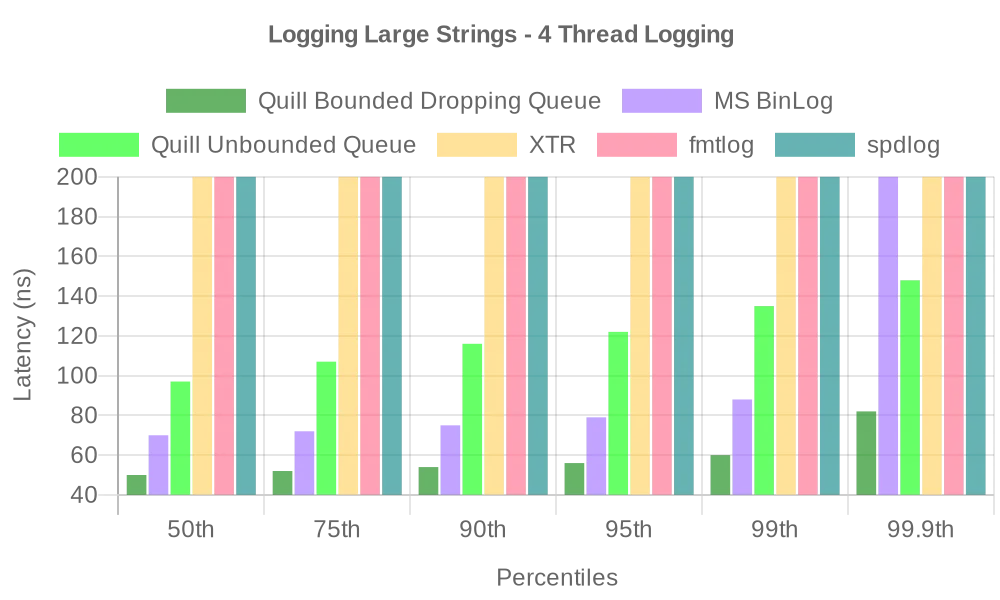
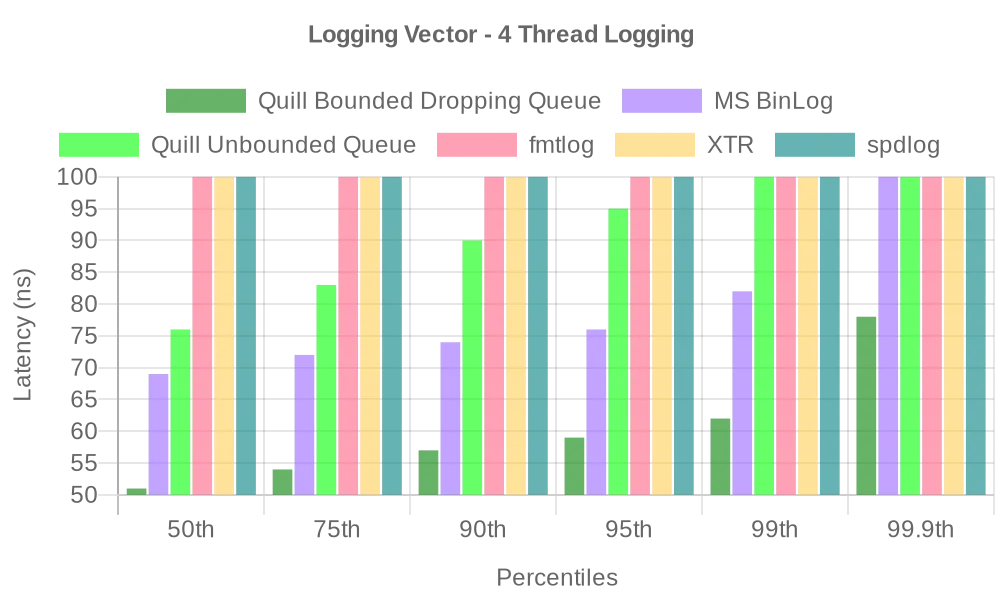
update benchmarks

Changed region(s): [[0.062, 0.21, 0.992, 0.84], [0.279, 0.03, 0.744, 0.09], [0.062, 0.81, 0.093, 0.84]]

diff --git a/scripts/generate_latency_chart_url.py b/scripts/generate_latency_chart_url.py
@@ -16,7 +16,8 @@ def generate_chart_url(markdown_table, title):
         'Iyengar NanoLog': 'rgba(100,149,237,0.6)',  # Cornflower Blue
         'spdlog': 'rgba(0,128,128,0.6)',  # Teal
         'g3log': 'rgba(255,165,0,0.6)',  # Orange Red
-        'BqLog': 'rgba(75,0,130,0.6)'  # Indigo
+        'BqLog': 'rgba(75,0,130,0.6)',  # Indigo
+        'Quill Unbounded Queue - Macro Free Mode': 'rgba(0,206,209,0.6)'  # Dark Turquoise
     }
 
     # Parse the markdown table
@@ -90,38 +91,94 @@ def generate_chart_url(markdown_table, title):
 # Define multiple markdown tables and titles
 markdown_tables = [
     """
-| Library                                                        | 50th | 75th | 90th | 95th | 99th | 99.9th |
-|----------------------------------------------------------------|:----:|:----:|:----:|:----:|:----:|:------:|
-| [Quill Bounded Dropping Queue](http://github.com/odygrd/quill) |  11  |  13  |  13  |  14  |  15  |   16   |
-| [fmtlog](http://github.com/MengRao/fmtlog)                     |  11  |  12  |  13  |  14  |  15  |   17   |
-| [Quill Unbounded Queue](http://github.com/odygrd/quill)        |  14  |  15  |  16  |  17  |  18  |   19   |
-| [MS BinLog](http://github.com/Morgan-Stanley/binlog)           |  22  |  23  |  24  |  25  |  61  |  100   |
-| [PlatformLab NanoLog](http://github.com/PlatformLab/NanoLog)   |  15  |  17  |  21  |  27  |  33  |   39   |
-| [XTR](https://github.com/choll/xtr)                            |  8   |  9   |  29  |  31  |  35  |   54   |
-| [BqLog](https://github.com/Tencent/BqLog)                      |  29  |  30  |  31  |  51  |  60  |   71   |
-| [Reckless](http://github.com/mattiasflodin/reckless)           |  91  | 107  | 115  | 118  | 124  |  135   |
-| [Iyengar NanoLog](http://github.com/Iyengar111/NanoLog)        |  86  |  97  | 119  | 128  | 159  |  268   |
-| [spdlog](http://github.com/gabime/spdlog)                      | 120  | 124  | 128  | 132  | 141  |  151   |
-| [g3log](http://github.com/KjellKod/g3log)                      | 881  | 956  | 1018 | 1089 | 1264 |  1494  |
+| Library                                                                   | 50th | 75th | 90th | 95th | 99th | 99.9th |
+|---------------------------------------------------------------------------|:----:|:----:|:----:|:----:|:----:|:------:|
+| [Quill Bounded Dropping Queue](http://github.com/odygrd/quill)            |  8   |  9   |  9   |  9   |  11  |   13   |
+| [Quill Unbounded Queue](http://github.com/odygrd/quill)                   |  8   |  9   |  9   |  9   |  11  |   13   |
+| [fmtlog](http://github.com/MengRao/fmtlog)                                |  8   |  9   |  10  |  10  |  12  |   13   |
+| [PlatformLab NanoLog](http://github.com/PlatformLab/NanoLog)              |  13  |  14  |  16  |  18  |  22  |   26   |
+| [MS BinLog](http://github.com/Morgan-Stanley/binlog)                      |  20  |  21  |  21  |  22  |  60  |   95   |
+| [XTR](https://github.com/choll/xtr)                                       |  7   |  7   |  29  |  31  |  33  |   54   |
+| [Quill Unbounded Queue - Macro Free Mode](http://github.com/odygrd/quill) |  26  |  27  |  28  |  28  |  29  |   32   |
+| [Reckless](http://github.com/mattiasflodin/reckless)                      |  26  |  28  |  31  |  32  |  34  |   42   |
+| [BqLog](https://github.com/Tencent/BqLog)                                 |  55  |  57  |  61  |  87  | 152  |  167   |
+| [Iyengar NanoLog](http://github.com/Iyengar111/NanoLog)                   |  85  |  98  | 119  | 127  | 350  |  409   |
+| [spdlog](http://github.com/gabime/spdlog)                                 | 148  | 151  | 154  | 157  | 165  |  173   |
+| [g3log](http://github.com/KjellKod/g3log)                                 | 1191 | 1288 | 1367 | 1485 | 1600 |  1889  |
     """,
     """
-| Library                                                        | 50th | 75th | 90th | 95th | 99th | 99.9th |
-|----------------------------------------------------------------|:----:|:----:|:----:|:----:|:----:|:------:|
-| [XTR](https://github.com/choll/xtr)                            |  9   |  11  |  13  |  14  |  32  |   40   |
-| [fmtlog](http://github.com/MengRao/fmtlog)                     |  11  |  12  |  13  |  14  |  16  |   19   |
-| [Quill Bounded Dropping Queue](http://github.com/odygrd/quill) |  13  |  14  |  15  |  16  |  17  |   19   |
-| [Quill Unbounded Queue](http://github.com/odygrd/quill)        |  15  |  16  |  17  |  18  |  19  |   21   |
-| [MS BinLog](http://github.com/Morgan-Stanley/binlog)           |  23  |  25  |  27  |  28  |  65  |  105   |
-| [PlatformLab NanoLog](http://github.com/PlatformLab/NanoLog)   |  16  |  20  |  32  |  38  |  44  |   51   |
-| [BqLog](https://github.com/Tencent/BqLog)                      |  32  |  33  |  35  |  56  |  64  |   76   |
-| [Reckless](http://github.com/mattiasflodin/reckless)           |  79  |  94  | 104  | 107  | 114  |  132   |
-| [Iyengar NanoLog](http://github.com/Iyengar111/NanoLog)        |  85  |  93  | 125  | 133  | 168  |  237   |
-| [spdlog](http://github.com/gabime/spdlog)                      | 178  | 218  | 261  | 281  | 381  |  651   |
-| [g3log](http://github.com/KjellKod/g3log)                      | 992  | 1055 | 1121 | 1178 | 1360 |  1600  |
+| Library                                                                   | 50th | 75th | 90th | 95th | 99th | 99.9th |
+|---------------------------------------------------------------------------|:----:|:----:|:----:|:----:|:----:|:------:|
+| [fmtlog](http://github.com/MengRao/fmtlog)                                |  9   |  9   |  9   |  10  |  12  |   13   |
+| [Quill Bounded Dropping Queue](http://github.com/odygrd/quill)            |  8   |  9   |  10  |  10  |  12  |   15   |
+| [Quill Unbounded Queue](http://github.com/odygrd/quill)                   |  8   |  9   |  10  |  10  |  13  |   15   |
+| [XTR](https://github.com/choll/xtr)                                       |  7   |  8   |  9   |  10  |  31  |   39   |
+| [PlatformLab NanoLog](http://github.com/PlatformLab/NanoLog)              |  14  |  16  |  19  |  22  |  26  |   30   |
+| [MS BinLog](http://github.com/Morgan-Stanley/binlog)                      |  21  |  21  |  22  |  23  |  61  |  102   |
+| [Reckless](http://github.com/mattiasflodin/reckless)                      |  18  |  22  |  25  |  27  |  31  |   49   |
+| [Quill Unbounded Queue - Macro Free Mode](http://github.com/odygrd/quill) |  28  |  29  |  30  |  31  |  34  |   41   |
+| [BqLog](https://github.com/Tencent/BqLog)                                 |  57  |  60  |  64  |  95  | 162  |  179   |
+| [Iyengar NanoLog](http://github.com/Iyengar111/NanoLog)                   |  63  |  93  | 127  | 134  | 228  |  337   |
+| [spdlog](http://github.com/gabime/spdlog)                                 | 215  | 251  | 320  | 357  | 449  |  734   |
+| [g3log](http://github.com/KjellKod/g3log)                                 | 1276 | 1347 | 1409 | 1462 | 1677 |  1954  |
+    """,
+    """
+| Library                                                                   | 50th | 75th | 90th | 95th | 99th | 99.9th |
+|---------------------------------------------------------------------------|:----:|:----:|:----:|:----:|:----:|:------:|
+| [Quill Bounded Dropping Queue](http://github.com/odygrd/quill)            |  10  |  12  |  13  |  13  |  15  |   16   |
+| [fmtlog](http://github.com/MengRao/fmtlog)                                |  10  |  12  |  13  |  13  |  15  |   16   |
+| [Quill Unbounded Queue](http://github.com/odygrd/quill)                   |  12  |  13  |  14  |  15  |  17  |   19   |
+| [MS BinLog](http://github.com/Morgan-Stanley/binlog)                      |  23  |  23  |  24  |  25  |  63  |   97   |
+| [PlatformLab NanoLog](http://github.com/PlatformLab/NanoLog)              |  14  |  16  |  18  |  20  |  30  |   34   |
+| [XTR](https://github.com/choll/xtr)                                       |  8   |  8   |  28  |  29  |  33  |   53   |
+| [Quill Unbounded Queue - Macro Free Mode](http://github.com/odygrd/quill) |  31  |  32  |  33  |  34  |  35  |   37   |
+| [BqLog](https://github.com/Tencent/BqLog)                                 |  57  |  60  |  64  |  88  | 160  |  173   |
+| [Reckless](http://github.com/mattiasflodin/reckless)                      |  90  | 107  | 113  | 116  | 122  |  131   |
+| [Iyengar NanoLog](http://github.com/Iyengar111/NanoLog)                   |  88  |  99  | 119  | 128  | 357  |  424   |
+| [spdlog](http://github.com/gabime/spdlog)                                 | 126  | 129  | 132  | 135  | 142  |  151   |
+| [g3log](http://github.com/KjellKod/g3log)                                 | 899  | 975  | 1037 | 1121 | 1267 |  1453  |
+    """,
+    """
+| Library                                                                   | 50th | 75th | 90th | 95th | 99th | 99.9th |
+|---------------------------------------------------------------------------|:----:|:----:|:----:|:----:|:----:|:------:|
+| [fmtlog](http://github.com/MengRao/fmtlog)                                |  10  |  12  |  13  |  14  |  16  |   19   |
+| [Quill Bounded Dropping Queue](http://github.com/odygrd/quill)            |  12  |  13  |  14  |  15  |  16  |   18   |
+| [XTR](https://github.com/choll/xtr)                                       |  8   |  12  |  13  |  15  |  30  |   40   |
+| [Quill Unbounded Queue](http://github.com/odygrd/quill)                   |  13  |  14  |  16  |  17  |  20  |   23   |
+| [MS BinLog](http://github.com/Morgan-Stanley/binlog)                      |  23  |  24  |  25  |  26  |  65  |  105   |
+| [Quill Unbounded Queue - Macro Free Mode](http://github.com/odygrd/quill) |  30  |  31  |  33  |  34  |  36  |   41   |
+| [PlatformLab NanoLog](http://github.com/PlatformLab/NanoLog)              |  16  |  19  |  28  |  36  |  44  |   51   |
+| [BqLog](https://github.com/Tencent/BqLog)                                 |  60  |  64  |  68  |  95  | 170  |  186   |
+| [Reckless](http://github.com/mattiasflodin/reckless)                      |  79  |  93  | 101  | 105  | 112  |  131   |
+| [Iyengar NanoLog](http://github.com/Iyengar111/NanoLog)                   |  87  |  95  | 128  | 135  | 195  |  330   |
+| [spdlog](http://github.com/gabime/spdlog)                                 | 197  | 224  | 276  | 306  | 394  |  689   |
+| [g3log](http://github.com/KjellKod/g3log)                                 | 1000 | 1062 | 1131 | 1203 | 1374 |  1617  |
+    """,
+    """
+| Library                                                        | 50th  | 75th  | 90th  | 95th  | 99th  | 99.9th |
+|----------------------------------------------------------------|:-----:|:-----:|:-----:|:-----:|:-----:|:------:|
+| [Quill Bounded Dropping Queue](http://github.com/odygrd/quill) |  48   |  52   |  56   |  59   |  123  |  158   |
+| [MS BinLog](http://github.com/Morgan-Stanley/binlog)           |  67   |  69   |  72   |  73   |  79   |  280   |
+| [Quill Unbounded Queue](http://github.com/odygrd/quill)        |  126  |  136  |  145  |  151  |  160  |  172   |
+| [XTR](https://github.com/choll/xtr)                            |  287  |  295  |  342  |  347  |  355  |  576   |
+| [fmtlog](http://github.com/MengRao/fmtlog)                     |  649  |  668  |  702  |  723  |  753  |  790   |
+| [spdlog](http://github.com/gabime/spdlog)                      | 11659 | 11758 | 11848 | 11905 | 12866 | 13543  |
+    """,
+    """
+| Library                                                        | 50th  | 75th  | 90th  | 95th  |  99th  | 99.9th |
+|----------------------------------------------------------------|:-----:|:-----:|:-----:|:-----:|:------:|:------:|
+| [Quill Bounded Dropping Queue](http://github.com/odygrd/quill) |  51   |  54   |  57   |  59   |   62   |   78   |
+| [MS BinLog](http://github.com/Morgan-Stanley/binlog)           |  69   |  72   |  74   |  76   |   82   |  299   |
+| [Quill Unbounded Queue](http://github.com/odygrd/quill)        |  76   |  83   |  90   |  95   |  105   |  119   |
+| [fmtlog](http://github.com/MengRao/fmtlog)                     |  675  |  700  |  742  |  759  |  790   |  822   |
+| [XTR](https://github.com/choll/xtr)                            |  580  | 1210  | 1309  | 1371  | 198694 | 222254 |
+| [spdlog](http://github.com/gabime/spdlog)                      | 12128 | 12247 | 12363 | 12460 | 13910  | 15902  |
     """
 ]
 
-titles = ["Logging Vector - 1 Thread Logging", "Logging Large Strings - 4 Thread Logging"]
+titles = ["Logging Numbers - 1 Thread Logging", "Logging Numbers - 4 Thread Logging",
+          "Logging Large Strings - 1 Thread Logging", "Logging Large Strings - 4 Thread Logging",
+          "Logging Vector - 1 Thread Logging", "Logging Vector - 4 Thread Logging"]
 
 # Generate URLs for each chart
 chart_urls = []

diff --git a/scripts/generate_throughput_chart_url.py b/scripts/generate_throughput_chart_url.py
@@ -11,7 +11,8 @@ def generate_chart_url(markdown_table, title):
         'spdlog': 'rgba(0,128,128,0.6)',  # Teal
         'Reckless': 'rgba(255,99,71,0.6)',  # Tomato Red
         'XTR': 'rgba(255,206,86,0.6)',  # Yellow
-        'BqLog': 'rgba(75,0,130,0.6)'  # Indigo
+        'BqLog': 'rgba(75,0,130,0.6)',  # Indigo
+        'Quill - Macro Free Mode': 'rgba(0,206,209,0.6)'  # Dark Turquoise
     }
 
     # Parse the markdown table
@@ -81,12 +82,15 @@ def generate_chart_url(markdown_table, title):
 markdown_table = """
 | Library                                                           | million msg/second | elapsed time |
 |-------------------------------------------------------------------|:------------------:|:------------:|
-| [Quill](http://github.com/odygrd/quill)                           |        5.70        |    701 ms    |
-| [BqLog](https://github.com/Tencent/BqLog)                         |        4.93        |    811 ms    |
-| [spdlog](http://github.com/gabime/spdlog)                         |        3.54        |   1128 ms    |
-| [fmtlog](http://github.com/MengRao/fmtlog)                        |        2.90        |   1378 ms    |
+| [MS BinLog (binary log)](http://github.com/Morgan-Stanley/binlog) |       62.12        |    64 ms     |
+| [BqLog (binary log)](https://github.com/Tencent/BqLog)            |       15.24        |    262 ms    |
+| [XTR](https://github.com/choll/xtr)                               |        8.25        |    484 ms    |
+| [Quill](http://github.com/odygrd/quill)                           |        5.30        |    754 ms    |
+| [spdlog](http://github.com/gabime/spdlog)                         |        4.32        |    925 ms    |
+| [fmtlog](http://github.com/MengRao/fmtlog)                        |        2.77        |   1443 ms    |
 | [Reckless](http://github.com/mattiasflodin/reckless)              |        2.72        |   1471 ms    |
-| [XTR](https://github.com/choll/xtr)                               |        2.61        |   1534 ms    |
+| [Quill - Macro Free Mode](https://github.com/choll/xtr)           |        2.65        |   1510 ms    |
+| [BqLog](https://github.com/Tencent/BqLog)                         |        2.53        |   1580 ms    |
 """
 
 # Generate the chart URL without MS BinLog

diff --git a/README.md b/README.md
@@ -221,18 +221,18 @@ The tables are sorted by the 95th percentile
 
 | Library                                                                   | 50th | 75th | 90th | 95th | 99th | 99.9th |
 |---------------------------------------------------------------------------|:----:|:----:|:----:|:----:|:----:|:------:|
-| [Quill Bounded Dropping Queue](http://github.com/odygrd/quill)            |  7   |  8   |  8   |  9   |  9   |   11   |
-| [fmtlog](http://github.com/MengRao/fmtlog)                                |  9   |  9   |  10  |  10  |  12  |   13   |
-| [Quill Unbounded Queue](http://github.com/odygrd/quill)                   |  10  |  10  |  10  |  10  |  12  |   14   |
-| [PlatformLab NanoLog](http://github.com/PlatformLab/NanoLog)              |  13  |  14  |  16  |  17  |  19  |   25   |
-| [MS BinLog](http://github.com/Morgan-Stanley/binlog)                      |  21  |  21  |  22  |  22  |  56  |   93   |
-| [XTR](https://github.com/choll/xtr)                                       |  7   |  7   |  29  |  30  |  33  |   53   |
-| [Quill Unbounded Queue - Macro Free Mode](http://github.com/odygrd/quill) |  26  |  27  |  28  |  28  |  30  |   32   |
-| [Reckless](http://github.com/mattiasflodin/reckless)                      |  26  |  28  |  31  |  32  |  35  |   49   |
-| [BqLog](https://github.com/Tencent/BqLog)                                 |  29  |  29  |  30  |  49  |  56  |   71   |
-| [Iyengar NanoLog](http://github.com/Iyengar111/NanoLog)                   |  83  |  96  | 117  | 125  | 152  |  197   |
-| [spdlog](http://github.com/gabime/spdlog)                                 | 143  | 147  | 152  | 158  | 165  |  177   |
-| [g3log](http://github.com/KjellKod/g3log)                                 | 1161 | 1259 | 1329 | 1419 | 1602 |  1827  |
+| [Quill Bounded Dropping Queue](http://github.com/odygrd/quill)            |  8   |  9   |  9   |  9   |  11  |   13   |
+| [Quill Unbounded Queue](http://github.com/odygrd/quill)                   |  8   |  9   |  9   |  9   |  11  |   13   |
+| [fmtlog](http://github.com/MengRao/fmtlog)                                |  8   |  9   |  10  |  10  |  12  |   13   |
+| [PlatformLab NanoLog](http://github.com/PlatformLab/NanoLog)              |  13  |  14  |  16  |  18  |  22  |   26   |
+| [MS BinLog](http://github.com/Morgan-Stanley/binlog)                      |  20  |  21  |  21  |  22  |  60  |   95   |
+| [XTR](https://github.com/choll/xtr)                                       |  7   |  7   |  29  |  31  |  33  |   54   |
+| [Quill Unbounded Queue - Macro Free Mode](http://github.com/odygrd/quill) |  26  |  27  |  28  |  28  |  29  |   32   |
+| [Reckless](http://github.com/mattiasflodin/reckless)                      |  26  |  28  |  31  |  32  |  34  |   42   |
+| [BqLog](https://github.com/Tencent/BqLog)                                 |  55  |  57  |  61  |  87  | 152  |  167   |
+| [Iyengar NanoLog](http://github.com/Iyengar111/NanoLog)                   |  85  |  98  | 119  | 127  | 350  |  409   |
+| [spdlog](http://github.com/gabime/spdlog)                                 | 148  | 151  | 154  | 157  | 165  |  173   |
+| [g3log](http://github.com/KjellKod/g3log)                                 | 1191 | 1288 | 1367 | 1485 | 1600 |  1889  |
 
 ![numbers_1_thread_logging.webp](docs%2Fcharts%2Fnumbers_1_thread_logging.webp)
 
@@ -240,18 +240,18 @@ The tables are sorted by the 95th percentile
 
 | Library                                                                   | 50th | 75th | 90th | 95th | 99th | 99.9th |
 |---------------------------------------------------------------------------|:----:|:----:|:----:|:----:|:----:|:------:|
-| [fmtlog](http://github.com/MengRao/fmtlog)                                |  8   |  9   |  9   |  10  |  11  |   13   |
-| [Quill Bounded Dropping Queue](http://github.com/odygrd/quill)            |  8   |  9   |  10  |  10  |  12  |   14   |
-| [XTR](https://github.com/choll/xtr)                                       |  7   |  8   |  9   |  11  |  31  |   38   | 
-| [Quill Unbounded Queue](http://github.com/odygrd/quill)                   |  10  |  11  |  11  |  12  |  13  |   15   |
-| [PlatformLab NanoLog](http://github.com/PlatformLab/NanoLog)              |  15  |  17  |  20  |  23  |  27  |   32   |
-| [MS BinLog](http://github.com/Morgan-Stanley/binlog)                      |  21  |  22  |  22  |  23  |  62  |  100   |
-| [Reckless](http://github.com/mattiasflodin/reckless)                      |  19  |  23  |  26  |  28  |  34  |   55   |
-| [Quill Unbounded Queue - Macro Free Mode](http://github.com/odygrd/quill) |  28  |  29  |  30  |  31  |  34  |   40   |
-| [BqLog](https://github.com/Tencent/BqLog)                                 |  31  |  33  |  34  |  55  |  61  |   73   |
-| [Iyengar NanoLog](http://github.com/Iyengar111/NanoLog)                   |  58  |  90  | 123  | 131  | 168  |  242   |
-| [spdlog](http://github.com/gabime/spdlog)                                 | 210  | 243  | 288  | 313  | 382  |  694   |
-| [g3log](http://github.com/KjellKod/g3log)                                 | 1271 | 1337 | 1396 | 1437 | 1614 |  1899  |
+| [fmtlog](http://github.com/MengRao/fmtlog)                                |  9   |  9   |  9   |  10  |  12  |   13   |
+| [Quill Bounded Dropping Queue](http://github.com/odygrd/quill)            |  8   |  9   |  10  |  10  |  12  |   15   |
+| [Quill Unbounded Queue](http://github.com/odygrd/quill)                   |  8   |  9   |  10  |  10  |  13  |   15   |
+| [XTR](https://github.com/choll/xtr)                                       |  7   |  8   |  9   |  10  |  31  |   39   |
+| [PlatformLab NanoLog](http://github.com/PlatformLab/NanoLog)              |  14  |  16  |  19  |  22  |  26  |   30   |
+| [MS BinLog](http://github.com/Morgan-Stanley/binlog)                      |  21  |  21  |  22  |  23  |  61  |  102   |
+| [Reckless](http://github.com/mattiasflodin/reckless)                      |  18  |  22  |  25  |  27  |  31  |   49   |
+| [Quill Unbounded Queue - Macro Free Mode](http://github.com/odygrd/quill) |  28  |  29  |  30  |  31  |  34  |   41   |
+| [BqLog](https://github.com/Tencent/BqLog)                                 |  57  |  60  |  64  |  95  | 162  |  179   |
+| [Iyengar NanoLog](http://github.com/Iyengar111/NanoLog)                   |  63  |  93  | 127  | 134  | 228  |  337   |
+| [spdlog](http://github.com/gabime/spdlog)                                 | 215  | 251  | 320  | 357  | 449  |  734   |
+| [g3log](http://github.com/KjellKod/g3log)                                 | 1276 | 1347 | 1409 | 1462 | 1677 |  1954  |
 
 ![numbers_4_thread_logging.webp](docs%2Fcharts%2Fnumbers_4_thread_logging.webp)
 
@@ -265,18 +265,18 @@ Logging `std::string` over 35 characters to prevent the short string optimizatio
 
 | Library                                                                   | 50th | 75th | 90th | 95th | 99th | 99.9th |
 |---------------------------------------------------------------------------|:----:|:----:|:----:|:----:|:----:|:------:|
-| [Quill Bounded Dropping Queue](http://github.com/odygrd/quill)            |  11  |  13  |  13  |  14  |  15  |   16   |
-| [fmtlog](http://github.com/MengRao/fmtlog)                                |  11  |  12  |  13  |  14  |  15  |   17   |
-| [Quill Unbounded Queue](http://github.com/odygrd/quill)                   |  14  |  15  |  16  |  17  |  18  |   19   |
-| [MS BinLog](http://github.com/Morgan-Stanley/binlog)                      |  22  |  23  |  24  |  25  |  61  |  100   |
-| [PlatformLab NanoLog](http://github.com/PlatformLab/NanoLog)              |  15  |  17  |  21  |  27  |  33  |   39   |
-| [XTR](https://github.com/choll/xtr)                                       |  8   |  9   |  29  |  31  |  35  |   54   |
-| [Quill Unbounded Queue - Macro Free Mode](http://github.com/odygrd/quill) |  31  |  32  |  33  |  34  |  36  |   38   |
-| [BqLog](https://github.com/Tencent/BqLog)                                 |  29  |  30  |  31  |  51  |  60  |   71   |
-| [Reckless](http://github.com/mattiasflodin/reckless)                      |  91  | 107  | 115  | 118  | 124  |  135   |
-| [Iyengar NanoLog](http://github.com/Iyengar111/NanoLog)                   |  86  |  97  | 119  | 128  | 159  |  268   |
-| [spdlog](http://github.com/gabime/spdlog)                                 | 120  | 124  | 128  | 132  | 141  |  151   |
-| [g3log](http://github.com/KjellKod/g3log)                                 | 881  | 956  | 1018 | 1089 | 1264 |  1494  |
+| [Quill Bounded Dropping Queue](http://github.com/odygrd/quill)            |  10  |  12  |  13  |  13  |  15  |   16   |
+| [fmtlog](http://github.com/MengRao/fmtlog)                                |  10  |  12  |  13  |  13  |  15  |   16   |
+| [Quill Unbounded Queue](http://github.com/odygrd/quill)                   |  12  |  13  |  14  |  15  |  17  |   19   |
+| [MS BinLog](http://github.com/Morgan-Stanley/binlog)                      |  23  |  23  |  24  |  25  |  63  |   97   |
+| [PlatformLab NanoLog](http://github.com/PlatformLab/NanoLog)              |  14  |  16  |  18  |  20  |  30  |   34   |
+| [XTR](https://github.com/choll/xtr)                                       |  8   |  8   |  28  |  29  |  33  |   53   |
+| [Quill Unbounded Queue - Macro Free Mode](http://github.com/odygrd/quill) |  31  |  32  |  33  |  34  |  35  |   37   |
+| [BqLog](https://github.com/Tencent/BqLog)                                 |  57  |  60  |  64  |  88  | 160  |  173   |
+| [Reckless](http://github.com/mattiasflodin/reckless)                      |  90  | 107  | 113  | 116  | 122  |  131   |
+| [Iyengar NanoLog](http://github.com/Iyengar111/NanoLog)                   |  88  |  99  | 119  | 128  | 357  |  424   |
+| [spdlog](http://github.com/gabime/spdlog)                                 | 126  | 129  | 132  | 135  | 142  |  151   |
+| [g3log](http://github.com/KjellKod/g3log)                                 | 899  | 975  | 1037 | 1121 | 1267 |  1453  |
 
 ![large_strings_1_thread_logging.webp](docs%2Fcharts%2Flarge_strings_1_thread_logging.webp)
 
@@ -284,18 +284,18 @@ Logging `std::string` over 35 characters to prevent the short string optimizatio
 
 | Library                                                                   | 50th | 75th | 90th | 95th | 99th | 99.9th |
 |---------------------------------------------------------------------------|:----:|:----:|:----:|:----:|:----:|:------:|
-| [XTR](https://github.com/choll/xtr)                                       |  9   |  11  |  13  |  14  |  32  |   40   |
-| [fmtlog](http://github.com/MengRao/fmtlog)                                |  11  |  12  |  13  |  14  |  16  |   19   |
-| [Quill Bounded Dropping Queue](http://github.com/odygrd/quill)            |  13  |  14  |  15  |  16  |  17  |   19   |
-| [Quill Unbounded Queue](http://github.com/odygrd/quill)                   |  15  |  16  |  17  |  18  |  19  |   21   |
-| [MS BinLog](http://github.com/Morgan-Stanley/binlog)                      |  23  |  25  |  27  |  28  |  65  |  105   |
-| [PlatformLab NanoLog](http://github.com/PlatformLab/NanoLog)              |  16  |  20  |  32  |  38  |  44  |   51   |
-| [Quill Unbounded Queue - Macro Free Mode](http://github.com/odygrd/quill) |  31  |  32  |  34  |  35  |  37  |   41   |
-| [BqLog](https://github.com/Tencent/BqLog)                                 |  32  |  33  |  35  |  56  |  64  |   76   |
-| [Reckless](http://github.com/mattiasflodin/reckless)                      |  79  |  94  | 104  | 107  | 114  |  132   |
-| [Iyengar NanoLog](http://github.com/Iyengar111/NanoLog)                   |  85  |  93  | 125  | 133  | 168  |  237   |
-| [spdlog](http://github.com/gabime/spdlog)                                 | 178  | 218  | 261  | 281  | 381  |  651   |
-| [g3log](http://github.com/KjellKod/g3log)                                 | 992  | 1055 | 1121 | 1178 | 1360 |  1600  |
+| [fmtlog](http://github.com/MengRao/fmtlog)                                |  10  |  12  |  13  |  14  |  16  |   19   |
+| [Quill Bounded Dropping Queue](http://github.com/odygrd/quill)            |  12  |  13  |  14  |  15  |  16  |   18   |
+| [XTR](https://github.com/choll/xtr)                                       |  8   |  12  |  13  |  15  |  30  |   40   |
+| [Quill Unbounded Queue](http://github.com/odygrd/quill)                   |  13  |  14  |  16  |  17  |  20  |   23   |
+| [MS BinLog](http://github.com/Morgan-Stanley/binlog)                      |  23  |  24  |  25  |  26  |  65  |  105   |
+| [Quill Unbounded Queue - Macro Free Mode](http://github.com/odygrd/quill) |  30  |  31  |  33  |  34  |  36  |   41   |
+| [PlatformLab NanoLog](http://github.com/PlatformLab/NanoLog)              |  16  |  19  |  28  |  36  |  44  |   51   |
+| [BqLog](https://github.com/Tencent/BqLog)                                 |  60  |  64  |  68  |  95  | 170  |  186   |
+| [Reckless](http://github.com/mattiasflodin/reckless)                      |  79  |  93  | 101  | 105  | 112  |  131   |
+| [Iyengar NanoLog](http://github.com/Iyengar111/NanoLog)                   |  87  |  95  | 128  | 135  | 195  |  330   |
+| [spdlog](http://github.com/gabime/spdlog)                                 | 197  | 224  | 276  | 306  | 394  |  689   |
+| [g3log](http://github.com/KjellKod/g3log)                                 | 1000 | 1062 | 1131 | 1203 | 1374 |  1617  |
 
 ![large_strings_4_thread_logging.webp](docs%2Fcharts%2Flarge_strings_4_thread_logging.webp)
 
@@ -309,27 +309,27 @@ Note: some of the previous loggers do not support passing a `std::vector` as an 
 
 ##### 1 Thread Logging
 
-| Library                                                        | 50th | 75th | 90th | 95th | 99th | 99.9th |
-|----------------------------------------------------------------|:----:|:----:|:----:|:----:|:----:|:------:|
-| [Quill Bounded Dropping Queue](http://github.com/odygrd/quill) |  48  |  50  |  53  |  55  |  58  |   62   |
-| [Quill Unbounded Queue](http://github.com/odygrd/quill)        |  54  |  56  |  57  |  58  |  61  |   66   |
-| [MS BinLog](http://github.com/Morgan-Stanley/binlog)           |  68  |  69  |  72  |  74  |  79  |  281   |
-| [XTR](https://github.com/choll/xtr)                            | 284  | 294  | 340  | 346  | 356  |  575   |
-| [fmtlog](http://github.com/MengRao/fmtlog)                     | 711  | 730  | 754  | 770  | 804  |  834   |
-| [spdlog](http://github.com/gabime/spdlog)                      | 6191 | 6261 | 6330 | 6386 | 6633 |  7320  |
+| Library                                                        | 50th  | 75th  | 90th  | 95th  | 99th  | 99.9th |
+|----------------------------------------------------------------|:-----:|:-----:|:-----:|:-----:|:-----:|:------:|
+| [Quill Bounded Dropping Queue](http://github.com/odygrd/quill) |  48   |  52   |  56   |  59   |  123  |  158   |
+| [MS BinLog](http://github.com/Morgan-Stanley/binlog)           |  67   |  69   |  72   |  73   |  79   |  280   |
+| [Quill Unbounded Queue](http://github.com/odygrd/quill)        |  126  |  136  |  145  |  151  |  160  |  172   |
+| [XTR](https://github.com/choll/xtr)                            |  287  |  295  |  342  |  347  |  355  |  576   |
+| [fmtlog](http://github.com/MengRao/fmtlog)                     |  649  |  668  |  702  |  723  |  753  |  790   |
+| [spdlog](http://github.com/gabime/spdlog)                      | 11659 | 11758 | 11848 | 11905 | 12866 | 13543  |
 
 ![vector_1_thread_logging.webp](docs%2Fcharts%2Fvector_1_thread_logging.webp)
 
 ##### 4 Threads Logging Simultaneously
 
-| Library                                                        | 50th | 75th | 90th | 95th | 99th | 99.9th |
-|----------------------------------------------------------------|:----:|:----:|:----:|:----:|:----:|:------:|
-| [Quill Bounded Dropping Queue](http://github.com/odygrd/quill) |  50  |  52  |  54  |  56  |  60  |   82   |
-| [MS BinLog](http://github.com/Morgan-Stanley/binlog)           |  70  |  72  |  75  |  79  |  88  |  286   |
-| [Quill Unbounded Queue](http://github.com/odygrd/quill)        |  97  | 107  | 116  | 122  | 135  |  148   |
-| [XTR](https://github.com/choll/xtr)                            | 512  | 711  | 761  | 791  | 865  |  945   |
-| [fmtlog](http://github.com/MengRao/fmtlog)                     | 780  | 804  | 823  | 835  | 860  |  896   |
-| [spdlog](http://github.com/gabime/spdlog)                      | 6469 | 6549 | 6641 | 6735 | 7631 |  9430  |
+| Library                                                        | 50th  | 75th  | 90th  | 95th  |  99th  | 99.9th |
+|----------------------------------------------------------------|:-----:|:-----:|:-----:|:-----:|:------:|:------:|
+| [Quill Bounded Dropping Queue](http://github.com/odygrd/quill) |  51   |  54   |  57   |  59   |   62   |   78   |
+| [MS BinLog](http://github.com/Morgan-Stanley/binlog)           |  69   |  72   |  74   |  76   |   82   |  299   |
+| [Quill Unbounded Queue](http://github.com/odygrd/quill)        |  76   |  83   |  90   |  95   |  105   |  119   |
+| [fmtlog](http://github.com/MengRao/fmtlog)                     |  675  |  700  |  742  |  759  |  790   |  822   |
+| [XTR](https://github.com/choll/xtr)                            |  580  | 1210  | 1309  | 1371  | 198694 | 222254 |
+| [spdlog](http://github.com/gabime/spdlog)                      | 12128 | 12247 | 12363 | 12460 | 13910  | 15902  |
 
 ![vector_4_thread_logging.webp](docs%2Fcharts%2Fvector_4_thread_logging.webp)
 
@@ -369,15 +369,15 @@ Logging 4 million times the message `"Iteration: {} int: {} double: {}"`
 
 | Library                                                           | million msg/second | elapsed time |
 |-------------------------------------------------------------------|:------------------:|:------------:|
-| [MS BinLog (binary log)](http://github.com/Morgan-Stanley/binlog) |       63.80        |    62 ms     |
-| [BqLog (binary log)](https://github.com/Tencent/BqLog)            |       15.92        |    251 ms    |
+| [MS BinLog (binary log)](http://github.com/Morgan-Stanley/binlog) |       62.12        |    64 ms     |
+| [BqLog (binary log)](https://github.com/Tencent/BqLog)            |       15.24        |    262 ms    |
+| [XTR](https://github.com/choll/xtr)                               |        8.25        |    484 ms    |
 | [Quill](http://github.com/odygrd/quill)                           |        5.30        |    754 ms    |
-| [BqLog](https://github.com/Tencent/BqLog)                         |        4.93        |    811 ms    |
-| [spdlog](http://github.com/gabime/spdlog)                         |        3.54        |   1128 ms    |
-| [fmtlog](http://github.com/MengRao/fmtlog)                        |        2.90        |   1378 ms    |
+| [spdlog](http://github.com/gabime/spdlog)                         |        4.32        |    925 ms    |
+| [fmtlog](http://github.com/MengRao/fmtlog)                        |        2.77        |   1443 ms    |
 | [Reckless](http://github.com/mattiasflodin/reckless)              |        2.72        |   1471 ms    |
 | [Quill - Macro Free Mode](https://github.com/choll/xtr)           |        2.65        |   1510 ms    |
-| [XTR](https://github.com/choll/xtr)                               |        2.61        |   1534 ms    |
+| [BqLog](https://github.com/Tencent/BqLog)                         |        2.53        |   1580 ms    |
 
 ![throughput_chart.webp](docs%2Fcharts%2Fthroughput_chart.webp)
 
